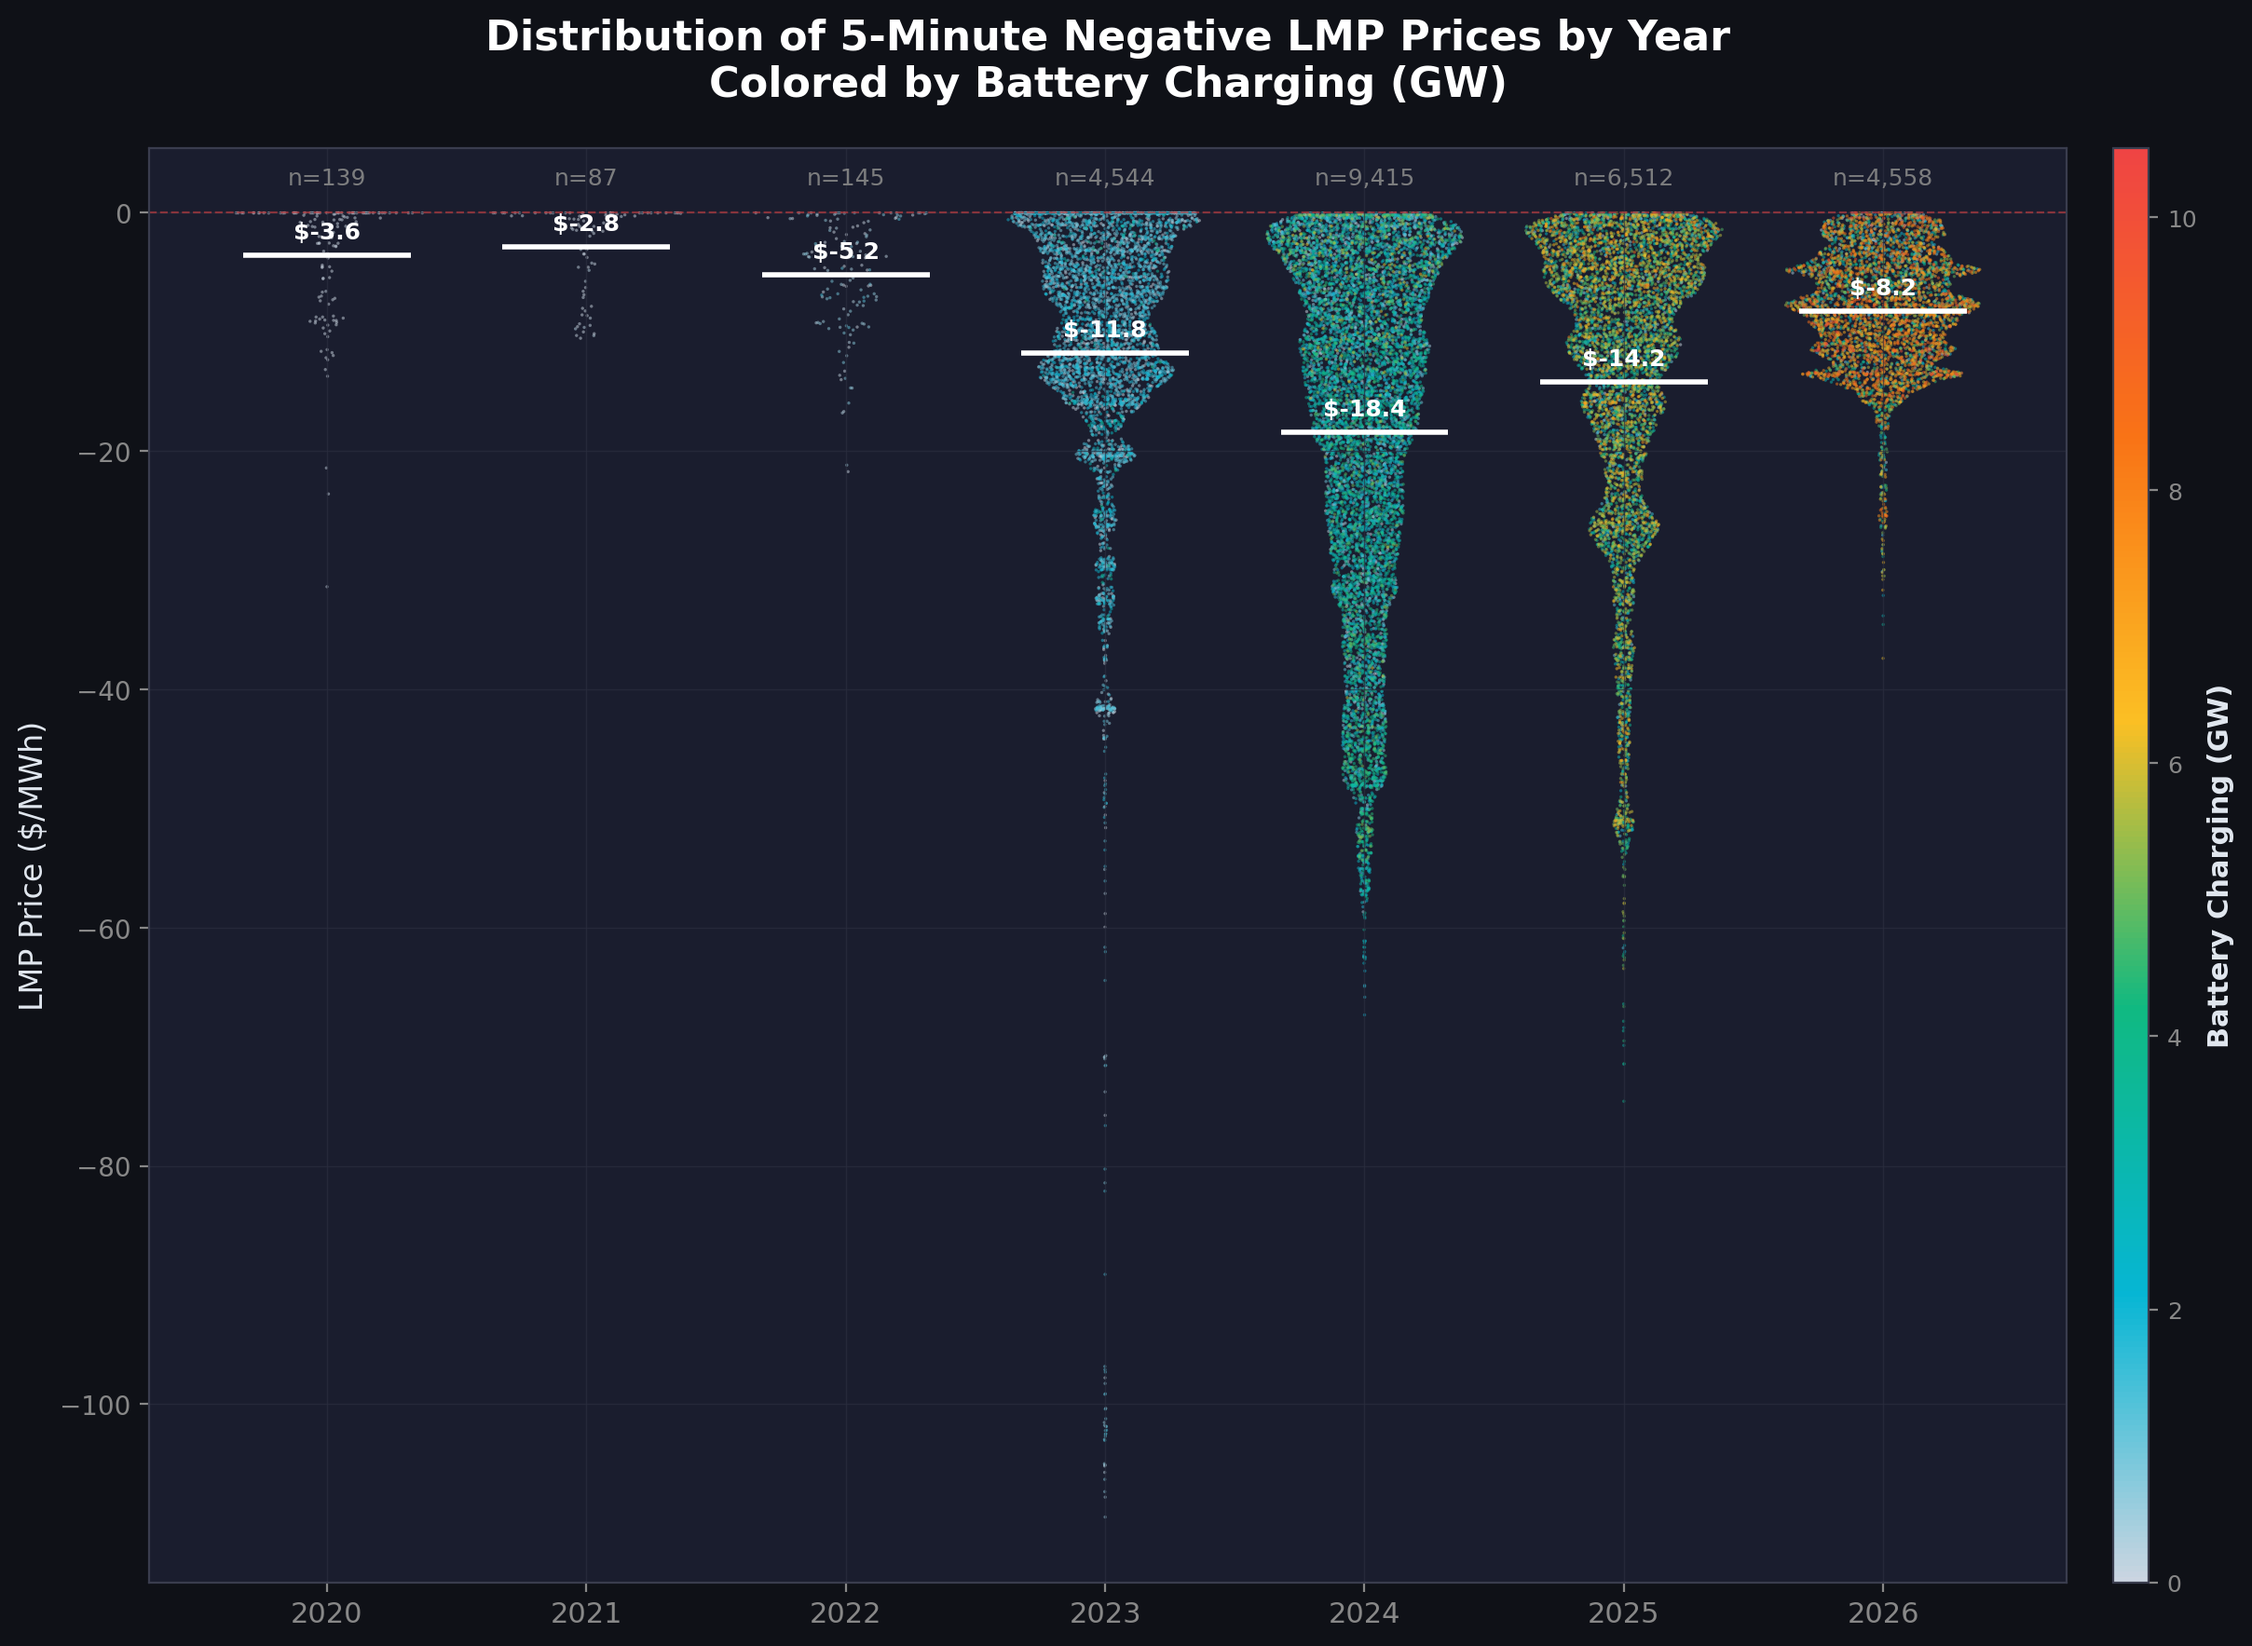
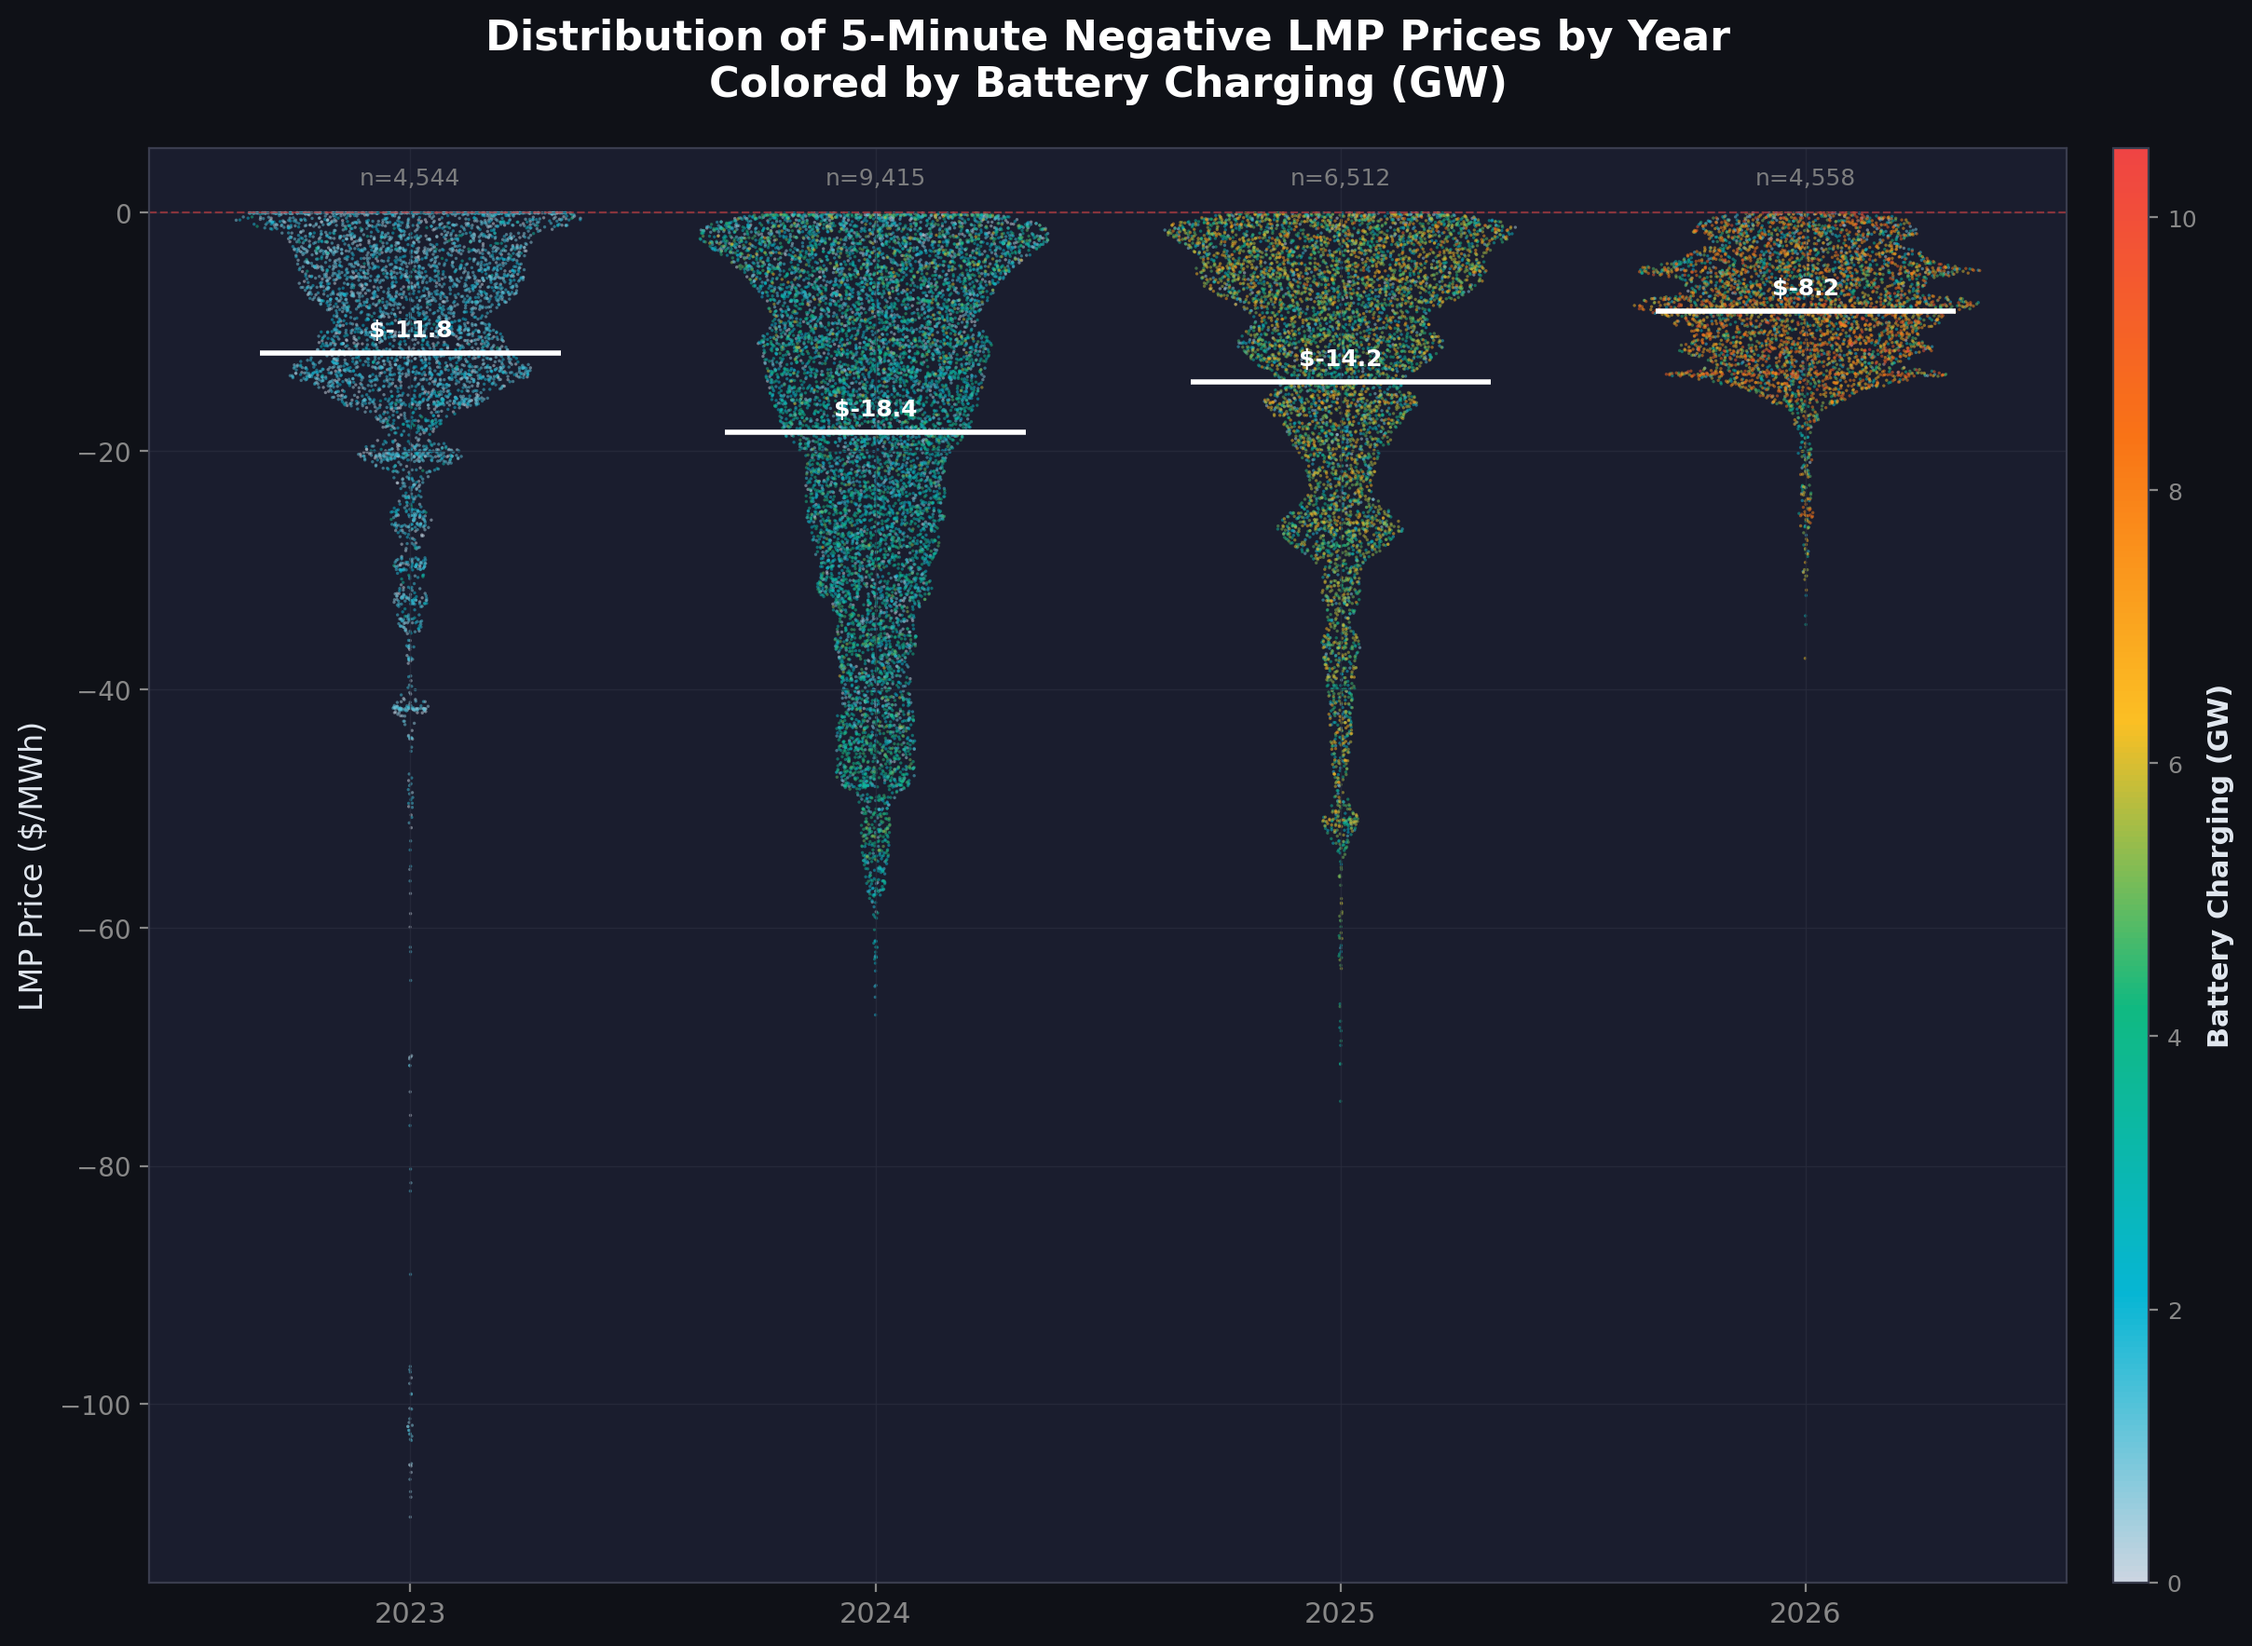
Update negative LMP chart to 2023+ and add battery daily revenue chart

diff --git a/GridUtilization/plot_battery_daily_revenue.py b/GridUtilization/plot_battery_daily_revenue.py
@@ -1,0 +1,173 @@
+import os
+import numpy as np
+import matplotlib.pyplot as plt
+import matplotlib.colors as mcolors
+import pandas as pd
+from scipy.stats import gaussian_kde
+import matplotlib.ticker as ticker
+
+script_dir = os.path.dirname(os.path.abspath(__file__))
+CSV_FILE = os.path.join(script_dir, "caiso_comprehensive_data.csv")
+
+# ── Style constants ──
+BG_OUTER = "#0f1117"
+BG_INNER = "#1a1d2e"
+TEXT_COLOR = "#e2e8f0"
+GRID_COLOR = "#2a2d3e"
+SPINE_COLOR = "#3a3d4e"
+ACCENT_RED = "#ef4444"
+
+# Create a cyclic colormap for the seasons/months
+# Winter (Blue) -> Spring (Green) -> Summer (Orange) -> Fall (Red/Purple) -> Winter (Blue)
+season_colors = ["#3b82f6", "#10b981", "#fbbf24", "#ef4444", "#3b82f6"]
+season_cmap = mcolors.LinearSegmentedColormap.from_list("seasons", season_colors)
+
+def generate_revenue_chart(df_daily, title, filename):
+    print(f"Generating chart: {filename}...")
+    
+    years = sorted(df_daily['year'].unique())
+    
+    # Setup figure
+    fig, ax = plt.subplots(figsize=(16, 10), facecolor=BG_OUTER)
+    ax.set_facecolor(BG_INNER)
+    ax.tick_params(colors="#888", labelsize=10)
+    for spine in ax.spines.values():
+        spine.set_color(SPINE_COLOR)
+    ax.grid(True, color=GRID_COLOR, linewidth=0.5, alpha=0.7)
+
+    max_half_width = 0.38
+    
+    # Normalize day of year for coloring
+    norm = mcolors.Normalize(vmin=1, vmax=365)
+    sm = plt.cm.ScalarMappable(cmap=season_cmap, norm=norm)
+
+    for i, yr in enumerate(years):
+        year_df = df_daily[df_daily['year'] == yr].copy()
+        
+        revs = year_df['revenue_m'].values
+        doy = year_df['day_of_year'].values
+        
+        if len(revs) < 2:
+            continue
+
+        # Check for variance - gaussian_kde fails if all values are identical
+        if np.all(revs == revs[0]):
+            densities = np.ones_like(revs)
+        else:
+            try:
+                # Optimized KDE evaluation for jittering
+                kde = gaussian_kde(revs, bw_method=0.1)
+                
+                # Evaluation grid
+                l_min, l_max = revs.min(), revs.max()
+                grid = np.linspace(l_min, l_max, 200)
+                grid_densities = kde(grid)
+                densities = np.interp(revs, grid, grid_densities)
+            except Exception as e:
+                print(f"Warning: KDE failed for year {yr}: {e}")
+                densities = np.ones_like(revs)
+            
+        d_max = densities.max()
+        densities_norm = densities / d_max if d_max > 0 else np.ones_like(densities)
+
+        # Generate jitter
+        raw_jitter = np.random.uniform(-1, 1, size=len(revs))
+        x_pos = i + raw_jitter * densities_norm * max_half_width
+        
+        # Sort by day of year so later days don't blindly overlap early days, or keep it random to mix
+        # Random shuffle is usually better for cyclic variables to not obscure any part
+        sort_idx = np.random.permutation(len(revs))
+        
+        # Scatter plot with seasonal colors
+        ax.scatter(x_pos[sort_idx], revs[sort_idx], c=doy[sort_idx],
+                    cmap=season_cmap, norm=norm,
+                    s=15, alpha=0.8, edgecolors="none", rasterized=True)
+
+        # Mean line
+        mean_rev = revs.mean()
+        half_w = max_half_width * 0.85
+        ax.hlines(mean_rev, i - half_w, i + half_w,
+                   colors="white", linewidths=2, zorder=5)
+        
+        # Text labels
+        ax.text(i, mean_rev + (ax.get_ylim()[1] - ax.get_ylim()[0])*0.015, f"${mean_rev:.2f}M",
+                 ha="center", va="bottom", fontsize=10, color="white",
+                 fontweight="bold", zorder=6)
+
+        # Count label at the bottom
+        y_bottom = ax.get_ylim()[0] if ax.get_ylim()[0] < 0 else 0
+        label_y = ax.get_ylim()[1] * 0.95
+        ax.text(i, label_y, f"n={len(revs)} days",
+                 ha="center", va="bottom", fontsize=10, color="#888",
+                 alpha=0.9)
+
+    ax.set_xticks(range(len(years)))
+    ax.set_xticklabels([str(yr) for yr in years], fontsize=12, color="#888")
+    ax.set_ylabel("Daily Arbitrage Revenue (Millions $)", color=TEXT_COLOR, fontsize=12)
+    
+    # Format Y axis as $XX M
+    ax.yaxis.set_major_formatter(ticker.FuncFormatter(lambda x, p: f"${x:,.1f}M"))
+    
+    ax.set_title(title, color="#fff", fontsize=16, fontweight="bold", pad=20)
+    ax.axhline(0, color=ACCENT_RED, linewidth=1, linestyle="--", alpha=0.7)
+
+    # Colorbar formatted with Month names
+    cbar = fig.colorbar(sm, ax=ax, orientation="vertical", pad=0.02, aspect=40)
+    cbar.set_label("Time of Year", color=TEXT_COLOR, fontsize=12, fontweight="bold")
+    cbar.ax.tick_params(colors="#888", labelsize=10)
+    cbar.outline.set_edgecolor(SPINE_COLOR)
+    
+    # Set colorbar ticks to roughly middle of months
+    cbar.set_ticks([15, 45, 74, 105, 135, 166, 196, 227, 258, 288, 319, 349])
+    cbar.set_ticklabels(['Jan', 'Feb', 'Mar', 'Apr', 'May', 'Jun', 'Jul', 'Aug', 'Sep', 'Oct', 'Nov', 'Dec'])
+
+    out_path = os.path.join(script_dir, filename)
+    fig.savefig(out_path, dpi=200, facecolor=BG_OUTER, bbox_inches="tight")
+    print(f"Saved to {out_path}")
+    plt.close()
+
+def main():
+    print("Loading data from comprehensive CSV...")
+    # Load required columns
+    df = pd.read_csv(CSV_FILE, usecols=['timestamp', 'lmp', 'batteries_mw'], parse_dates=['timestamp'])
+    
+    # Ensure numeric
+    df['lmp'] = pd.to_numeric(df['lmp'], errors='coerce')
+    df['batteries_mw'] = pd.to_numeric(df['batteries_mw'], errors='coerce').fillna(0)
+    
+    print("Calculating interval revenue...")
+    # batteries_mw is negative for charging, positive for discharging.
+    # If charging (negative): interval_revenue = batteries_mw * lmp / 12
+    # e.g., -10MW * $30/MWh = -$300 / 12 = -$25 (we pay $25)
+    # If discharging (positive): interval_revenue = batteries_mw * lmp / 12
+    # e.g., 10MW * $100/MWh = $1000 / 12 = $83.33 (we earn $83.33)
+    df['interval_revenue'] = df['batteries_mw'] * df['lmp'] / 12.0
+    
+    # Add date columns
+    df['date'] = df['timestamp'].dt.date
+    
+    print("Grouping by day...")
+    daily_df = df.groupby('date').agg(
+        total_revenue=('interval_revenue', 'sum'),
+    ).reset_index()
+    
+    daily_df['date'] = pd.to_datetime(daily_df['date'])
+    daily_df['year'] = daily_df['date'].dt.year
+    daily_df['day_of_year'] = daily_df['date'].dt.dayofyear
+    
+    # Convert revenue to millions
+    daily_df['revenue_m'] = daily_df['total_revenue'] / 1_000_000.0
+    
+    # Filter since 2023
+    df_plot = daily_df[daily_df['year'] >= 2023].copy()
+    
+    print(f"Generating chart for {len(df_plot)} days...")
+    
+    generate_revenue_chart(
+        df_plot,
+        "Distribution of Daily Battery Arbitrage Revenue (2023-Present)\nColored by Time of Year",
+        "battery_daily_revenue_distribution.png"
+    )
+
+if __name__ == "__main__":
+    main()

diff --git a/GridUtilization/plot_5min_lmp_distribution_batt.py b/GridUtilization/plot_5min_lmp_distribution_batt.py
@@ -153,7 +153,7 @@ def main():
     
     # Version 1: Only negative prices
     print("Processing Version 1: Negative LMPs...")
-    df_neg = df[df['lmp'] < 0].copy()
+    df_neg = df[(df['lmp'] < 0) & (df['year'] >= 2023)].copy()
     generate_distribution_chart(
         df_neg, 
         "Distribution of 5-Minute Negative LMP Prices by Year\nColored by Battery Charging (GW)",
